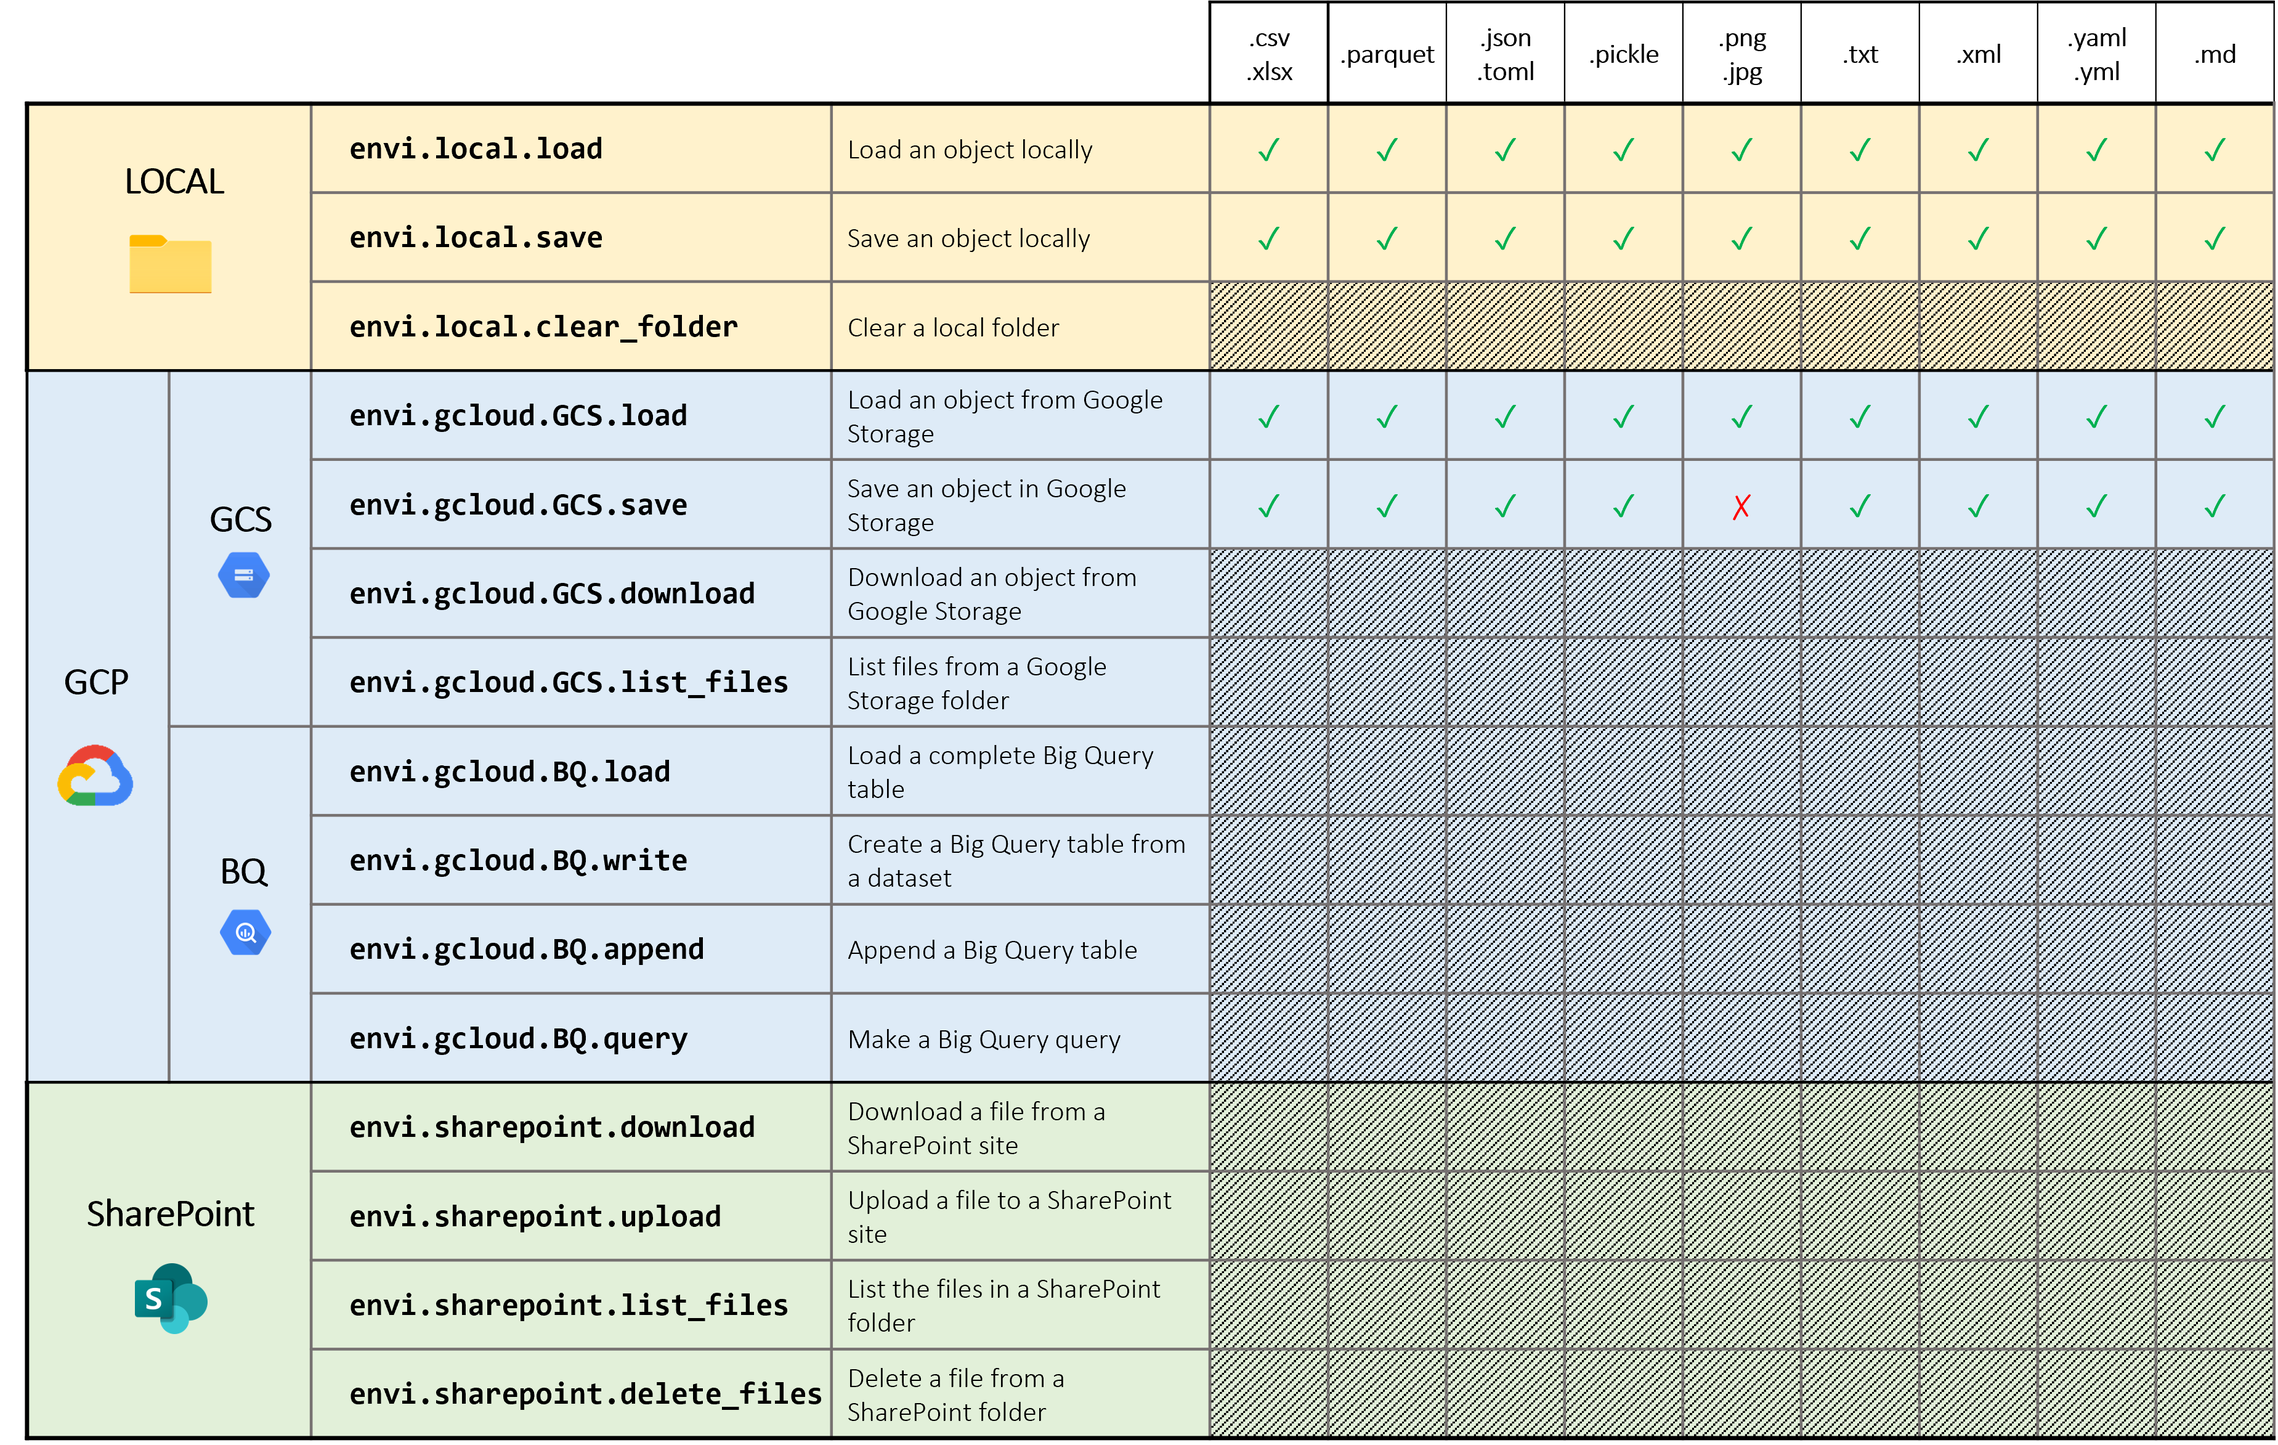
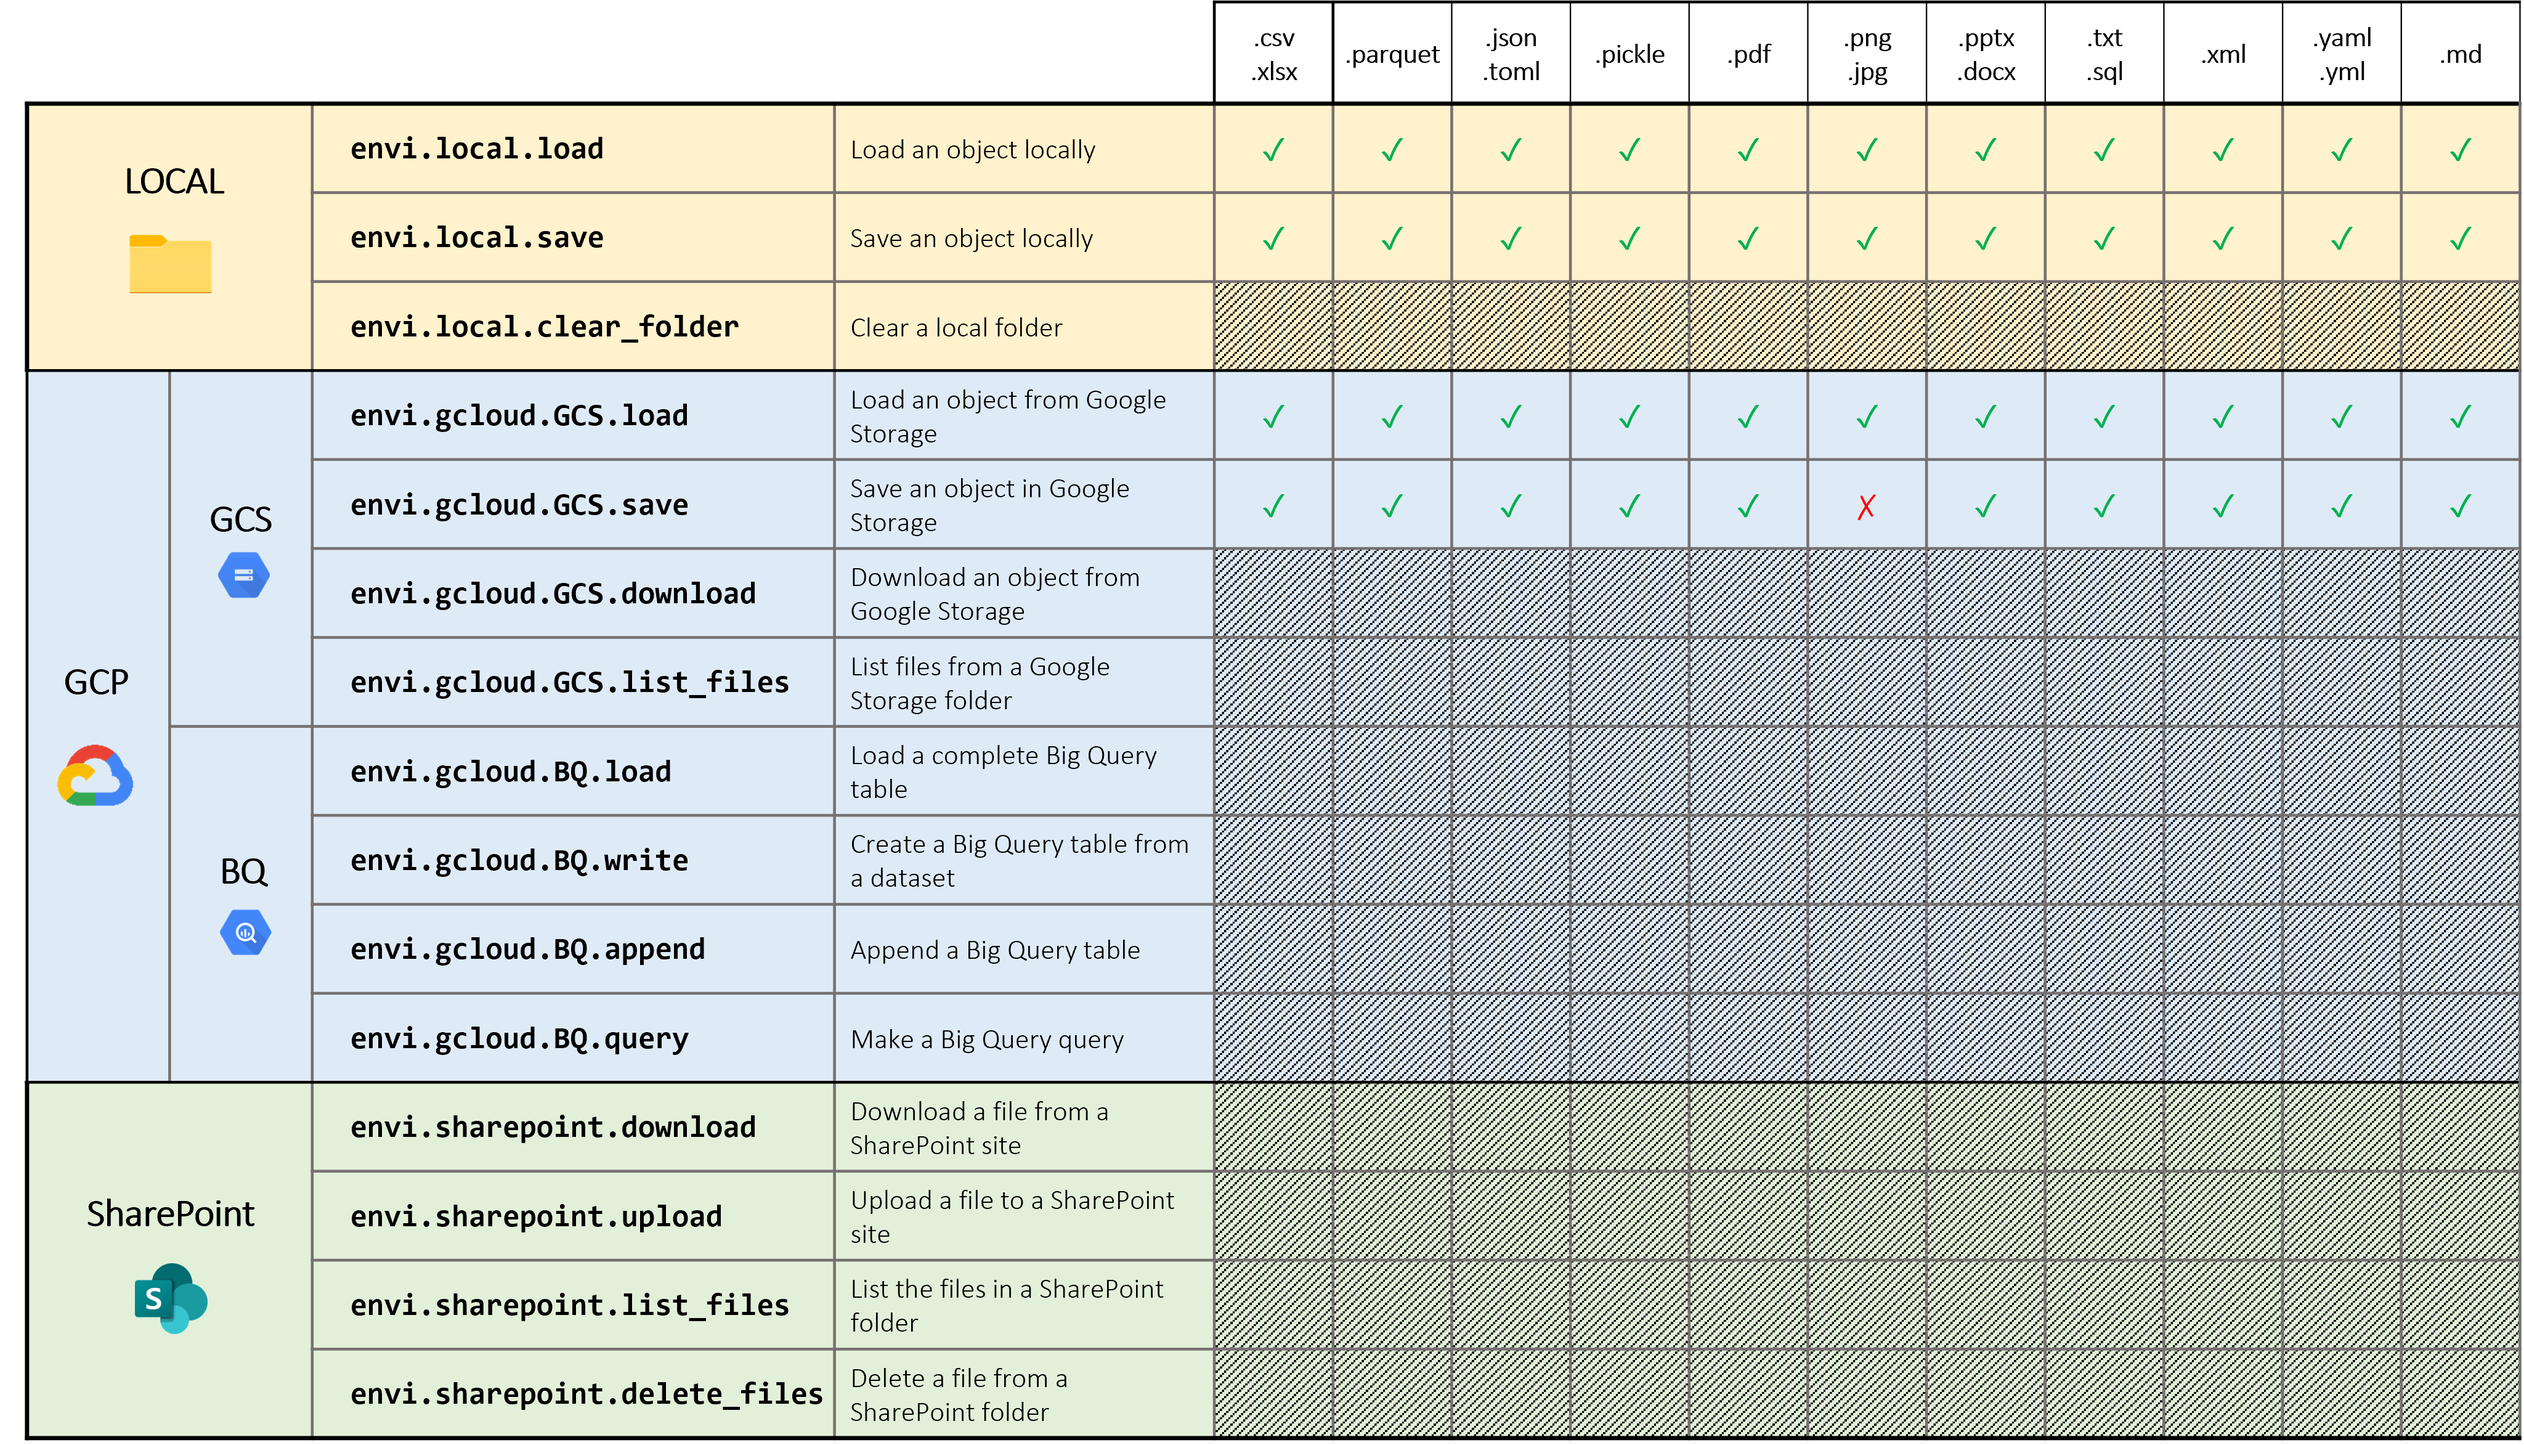
Add pdf, docx, pdf and sql extensions

diff --git a/easyenvi/file_manager.py b/easyenvi/file_manager.py
@@ -2,21 +2,28 @@ class FileManager:
     """
     Manages loading and saving files using various formats.
     
-    Arguments:
-        extra_loader_config (dict): Extra configuration for file loaders.
-        extra_saver_config (dict): Extra configuration for file savers.
+    Parameters
+    ----------
+    extra_loader_config : dict
+        Extra configuration for file loaders.
+    extra_saver_config : dict
+        Extra configuration for file savers.
     """
 
     def __init__(self, extra_loader_config=None, extra_saver_config=None):
 
         self.loader_config = {
             'csv':      (csv_loader,        'rb'),
+            'docx':     (docx_loader,       'rb'),
             'jpg':      (jpg_loader,        'rb'),
             'json':     (json_loader,       'rt'),
             'md':       (md_loader,         'rt'),
             'parquet':  (parquet_loader,    'rb'),
+            'pdf':      (pdf_loader,        'rb'),
             'pickle':   (pickle_loader,     'rb'),
             'png':      (png_loader,        'rb'),
+            'pptx':     (pptx_loader,       'rb'),
+            'sql':      (sql_loader,        'rt'),
             'toml':     (toml_loader,       'rt'),
             'txt':      (txt_loader,        'rt'),
             'xlsx':     (xlsx_loader,       'rb'),
@@ -27,14 +34,18 @@ class FileManager:
         
         self.saver_config = {
             'csv':      (csv_saver,         'wb'),
+            'docx':     (docx_saver,        'wb'),
             'jpg':      (jpg_saver,         'wb'),
             'json':     (json_saver,        'wt'),
             'md':       (md_saver,          'wt'),
             'parquet':  (parquet_saver,     'wb'),
+            'pdf':      (pdf_saver,         'wb'),
             'pickle':   (pickle_saver,      'wb'),
             'png':      (png_saver,         'wb'),
+            'pptx':     (pptx_saver,        'wb'),
+            'sql':      (sql_saver,         'wt'),
             'toml':     (toml_saver,        'wt'),
-            'txt':      (txt_saver,        'wt'),
+            'txt':      (txt_saver,         'wt'),
             'xlsx':     (xlsx_saver,        'wb'),
             'xml':      (xml_saver,         'wb'),
             'yaml':     (yaml_saver,        'wt'),
@@ -54,6 +65,14 @@ def csv_loader(path, **kwargs):
 
 def csv_saver(obj, path, **kwargs):
     obj.to_csv(path, **kwargs)
+
+# DOCX
+def docx_loader(path):
+    from docx import Document
+    return Document(path)
+
+def docx_saver(obj, path):
+    obj.save(path)
 
 # JPG
 def jpg_loader(path, **kwargs):
@@ -87,6 +106,21 @@ def parquet_loader(path, **kwargs):
 def parquet_saver(obj, path, **kwargs):
     obj.to_parquet(path, **kwargs)
 
+# PDF
+def pdf_loader(path):
+    from PyPDF2 import PdfReader
+    # return PdfReader(path)
+    import copy
+    return copy.deepcopy(PdfReader(path))
+
+def pdf_saver(obj, path):
+    from PyPDF2 import PdfWriter
+    output = PdfWriter()
+    for page in obj.pages:
+        output.add_page(page)
+    
+    output.write(path)
+
 # PICKLE
 def pickle_loader(path, **kwargs):
     import pickle
@@ -96,6 +130,14 @@ def pickle_saver(obj, path, **kwargs):
     import pickle
     pickle.dump(obj, path, protocol=pickle.HIGHEST_PROTOCOL, **kwargs)
 
+# PPTX
+def pptx_loader(path):
+    from pptx import Presentation
+    return Presentation(path)
+
+def pptx_saver(obj, path):
+    obj.save(path)
+
 # PNG
 def png_loader(path, **kwargs):
     from PIL import Image
@@ -103,6 +145,13 @@ def png_loader(path, **kwargs):
 
 def png_saver(obj, path, **kwargs):
     obj.save(path, **kwargs)
+
+# SQL
+def sql_loader(path, **kwargs):
+    return path.read(**kwargs)
+
+def sql_saver(obj, path, **kwargs):
+    path.write(obj, **kwargs)
 
 # TOML
 def toml_loader(path, **kwargs):
